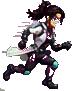
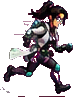
Mold Mission: fix clipped Dr. Mira sprites — full figures, nothing cut off
The heal-cast and run cuts were slicing parts (her emitter, hair, a trailing
foot). Re-cut from cleanly-isolated frames so the whole figure is captured:
- mira_run: the last run frame (isolated by empty columns) instead of a
  blur-merged middle frame — full body + legs.
- mira_heal: her AIM frame (emitter pointed forward) with the box sized to her
  exact head-to-feet-and-emitter extent, excluding the row label. This shows her
  complete Bio-Cleaner Emitter; the heal beam is still drawn in-engine, now
  originating from the emitter tip.
All three Mira poses verified clip-free (edge scan) and clean on white.

Verified: python3 games/mold_mission/mold_mission.py --selftest
-> selftest OK: all 5 missions win

Claude-Session: https://claude.ai/code/session_01C7stTX2MiAL5f8VZvZr1zp

diff --git a/games/mold_mission/cut_mira.py b/games/mold_mission/cut_mira.py
@@ -13,11 +13,13 @@ from PIL import Image
 SHEET = "art_reference/pending/dr_mira_sprite_sheet.png"
 OUT = "assets"
 
-# name -> ("seed", x, y) flood the connected figure, or ("box", l,t,r,b)
+# name -> ("seed", x, y) flood the connected figure, or ("box", l,t,r,b).
+# Box frames are ones cleanly isolated by empty columns, so the whole figure
+# (every limb + the emitter) is captured with no clipping.
 POSES = {
-    "mira":      ("seed", 311, 168),          # IDLE frame (row 1)
-    "mira_run":  ("seed", 1024, 168),         # RUN frame (row 1)
-    "mira_heal": ("box", 936, 553, 1012, 636),  # HEAL BEAM caster (no ally/beam)
+    "mira":      ("seed", 311, 168),            # IDLE frame (row 1)
+    "mira_run":  ("box", 1069, 110, 1147, 216),  # last RUN frame (isolated)
+    "mira_heal": ("box", 20, 544, 150, 653),    # AIM frame — emitter forward (cast)
 }
 
 

diff --git a/games/mold_mission/mold_mission.py b/games/mold_mission/mold_mission.py
@@ -2494,9 +2494,9 @@ class Ally:
 
     def draw(self, s, cam, assets, t, p):
         healing = self.heal_t > 0
-        if healing:                       # green heal beam from Mira to Ty
-            ex = self.x - cam + self.w / 2 + self.facing * 13
-            ey = self.y + 20
+        if healing:                       # green heal beam from Mira's emitter to Ty
+            ex = self.x - cam + self.w / 2 + self.facing * 26
+            ey = self.y + 26
             tx = p.x - cam + p.w / 2
             ty = p.y + p.h * 0.45
             pulse = 150 + int(80 * math.sin(t * 22))
